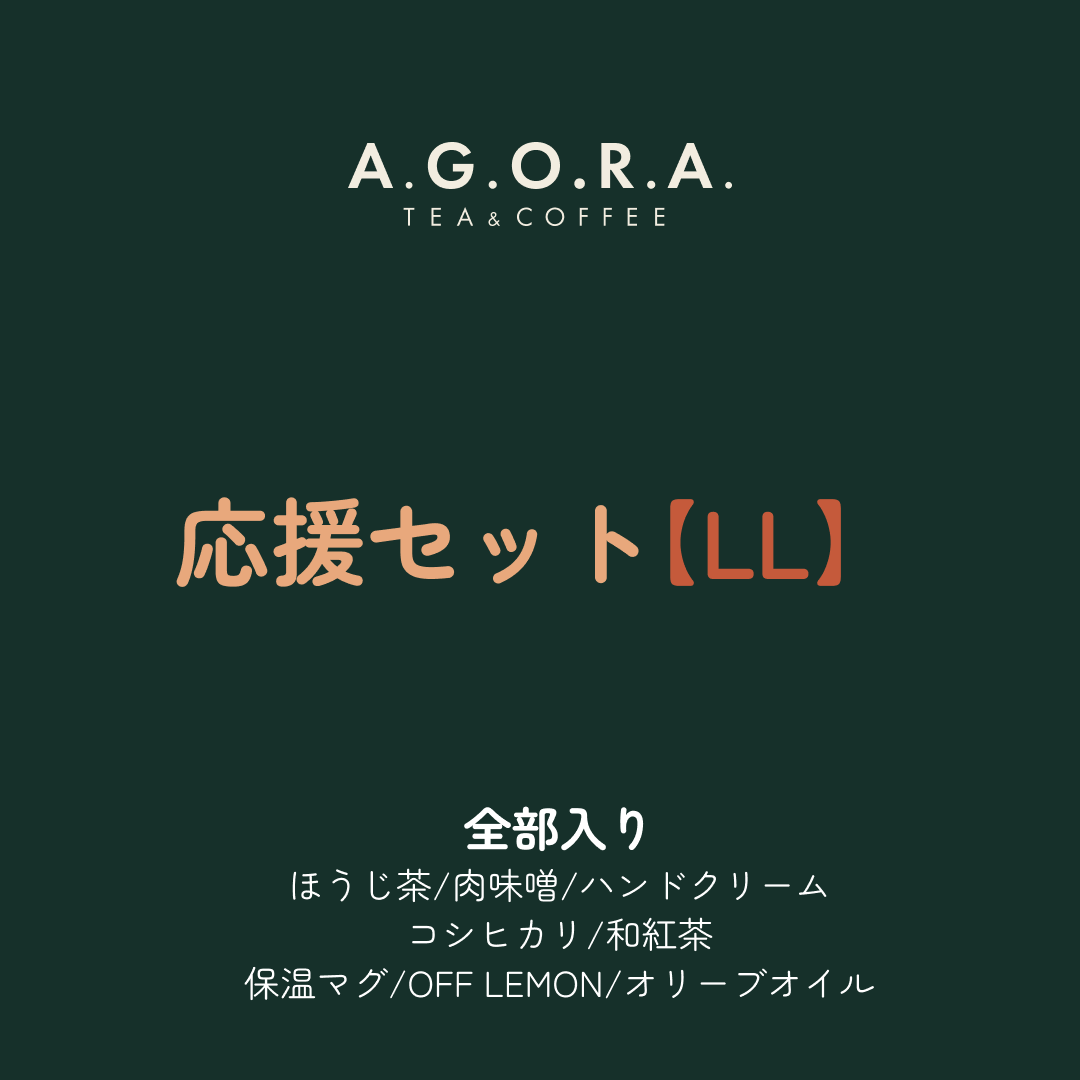
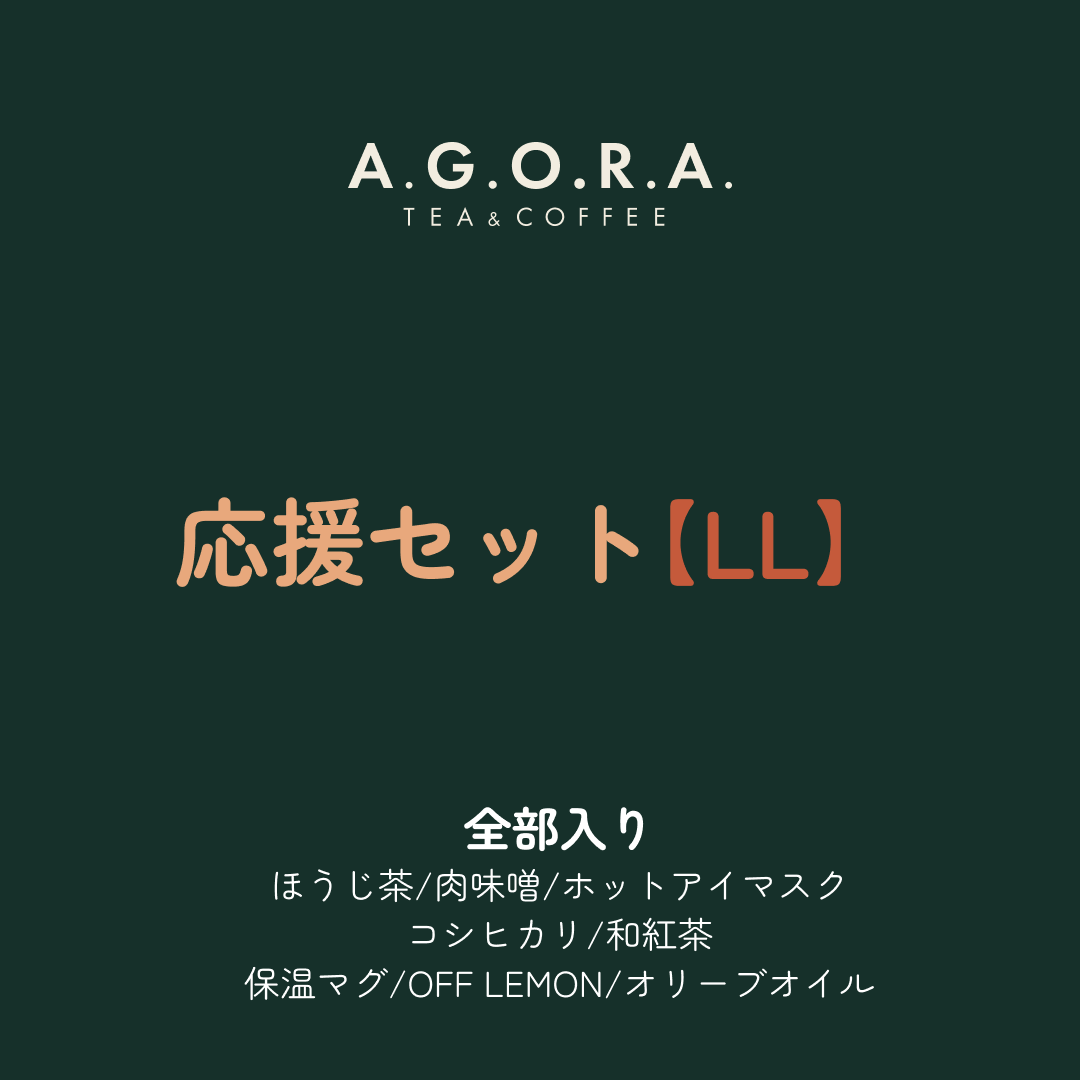
Swap the hand cream for a hot eye mask in the S and LL sets
Supplier is out of the hand cream. S now lists the eye mask and carries
the revised figures (2,127円分 + 応援分 873円), with a one-liner about
warmth at the end of the day in place of the one about 肉味噌. LL keeps
its summary wording and just takes the new total, 17,681円分.

Replaced s.png and ll.png as well — both had their contents printed into
the artwork, so the text fix alone would have left the old item named in
the image. Kept the existing filenames so nothing else had to change.

L and LL now carry a per-card note that the olive oil is on backorder and
they ship from 8/25. S and M ship normally and say nothing.

Removed the section-wide "ships from 8/23" line added yesterday: at the
time everything was waiting on the 肉味噌, but with S and M now shipping
normally it would have made them look slower than they are.

Prices, Square links, layout and the other sections are untouched.
Verified at 375px.

Changed region(s): [[0.2444, 0.7944, 0.7944, 0.8556]]

diff --git a/index.html b/index.html
@@ -187,7 +187,6 @@
     <div class="support__lead reveal" data-delay="1">
       <p>8月の豪雨により、初出店を予定していた親子三代夏祭りが中止となり、大きな打撃を受けました。それでも秋以降、出店を続けてまいります。</p>
       <p>売上は、次回の出店費用とキッチンカー購入の資金にあてさせていただきます。</p>
-      <p class="support__shipping" data-support="open">入荷を待っている商品があるため、8月23日以降、順次の発送となります。</p>
     </div>
 
     <div class="support__closed" data-support="closed" hidden>
@@ -200,9 +199,9 @@
         <div class="support__body">
           <h3 class="support__name">応援セット【S】</h3>
           <p class="support__price">¥3,000</p>
-          <p class="support__items">金木犀ほうじ茶 / ピリ辛肉味噌 / ハンドクリーム</p>
-          <p class="support__copy">秋の夜長に。香るほうじ茶と、ごはんが進む肉味噌。</p>
-          <p class="support__value">商品合計 2,105円分 + 応援分 895円</p>
+          <p class="support__items">金木犀ほうじ茶 / ピリ辛肉味噌 / ホットアイマスク</p>
+          <p class="support__copy">秋の夜長に。香るほうじ茶と、一日の終わりの温かさを。</p>
+          <p class="support__value">商品合計 2,127円分 + 応援分 873円</p>
           <a class="support__cta" href="https://square.link/u/6Z8B94MR" target="_blank" rel="noopener">購入する</a>
           <p class="support__stock">8月31日まで・なくなり次第終了</p>
         </div>
@@ -229,6 +228,7 @@
           <p class="support__value">商品合計 8,440円分</p>
           <a class="support__cta" href="https://square.link/u/dxqc7FA2" target="_blank" rel="noopener">購入する</a>
           <p class="support__stock">8月31日まで・なくなり次第終了</p>
+          <p class="support__ship">※オリーブオイルの入荷待ちのため、8月25日以降の発送となります。</p>
         </div>
       </li>
       <li class="support__card reveal" data-delay="3">
@@ -238,9 +238,10 @@
           <p class="support__price">¥15,000</p>
           <p class="support__items">上記すべて + 保温マグ2色 + コシヒカリ3種</p>
           <p class="support__copy">いま一番おすすめできるものを、すべて詰め合わせました。</p>
-          <p class="support__value">商品合計 17,659円分</p>
+          <p class="support__value">商品合計 17,681円分</p>
           <a class="support__cta" href="https://square.link/u/m9jKxUeQ" target="_blank" rel="noopener">購入する</a>
           <p class="support__stock">8月31日まで・なくなり次第終了</p>
+          <p class="support__ship">※オリーブオイルの入荷待ちのため、8月25日以降の発送となります。</p>
         </div>
       </li>
     </ul>

diff --git a/style.css b/style.css
@@ -1199,13 +1199,9 @@ a { color: inherit; }
   background: var(--paper-2); border-radius: 14px; text-align: center;
 }
 .support__closed p { margin: 0; font-size: var(--fs-body); line-height: 1.9; color: var(--ink-soft); }
-/* 発送時期の注記。買う前に必ず目に入るよう、リード文の末尾に置いている */
-.support__shipping {
-  margin-top: 16px !important;
-  padding: 12px 18px;
-  display: inline-block;
-  border: 1px solid var(--border-strong);
-  border-radius: 999px;
-  font-size: var(--fs-note) !important;
-  color: var(--ink) !important;
+
+/* 入荷待ちの品を含むセットにだけ出す発送時期の注記（補足テキストと同じ扱い） */
+.support__ship {
+  margin: 6px 0 0; text-align: center;
+  font-size: 0.68rem; line-height: 1.7; color: var(--taupe);
 }
